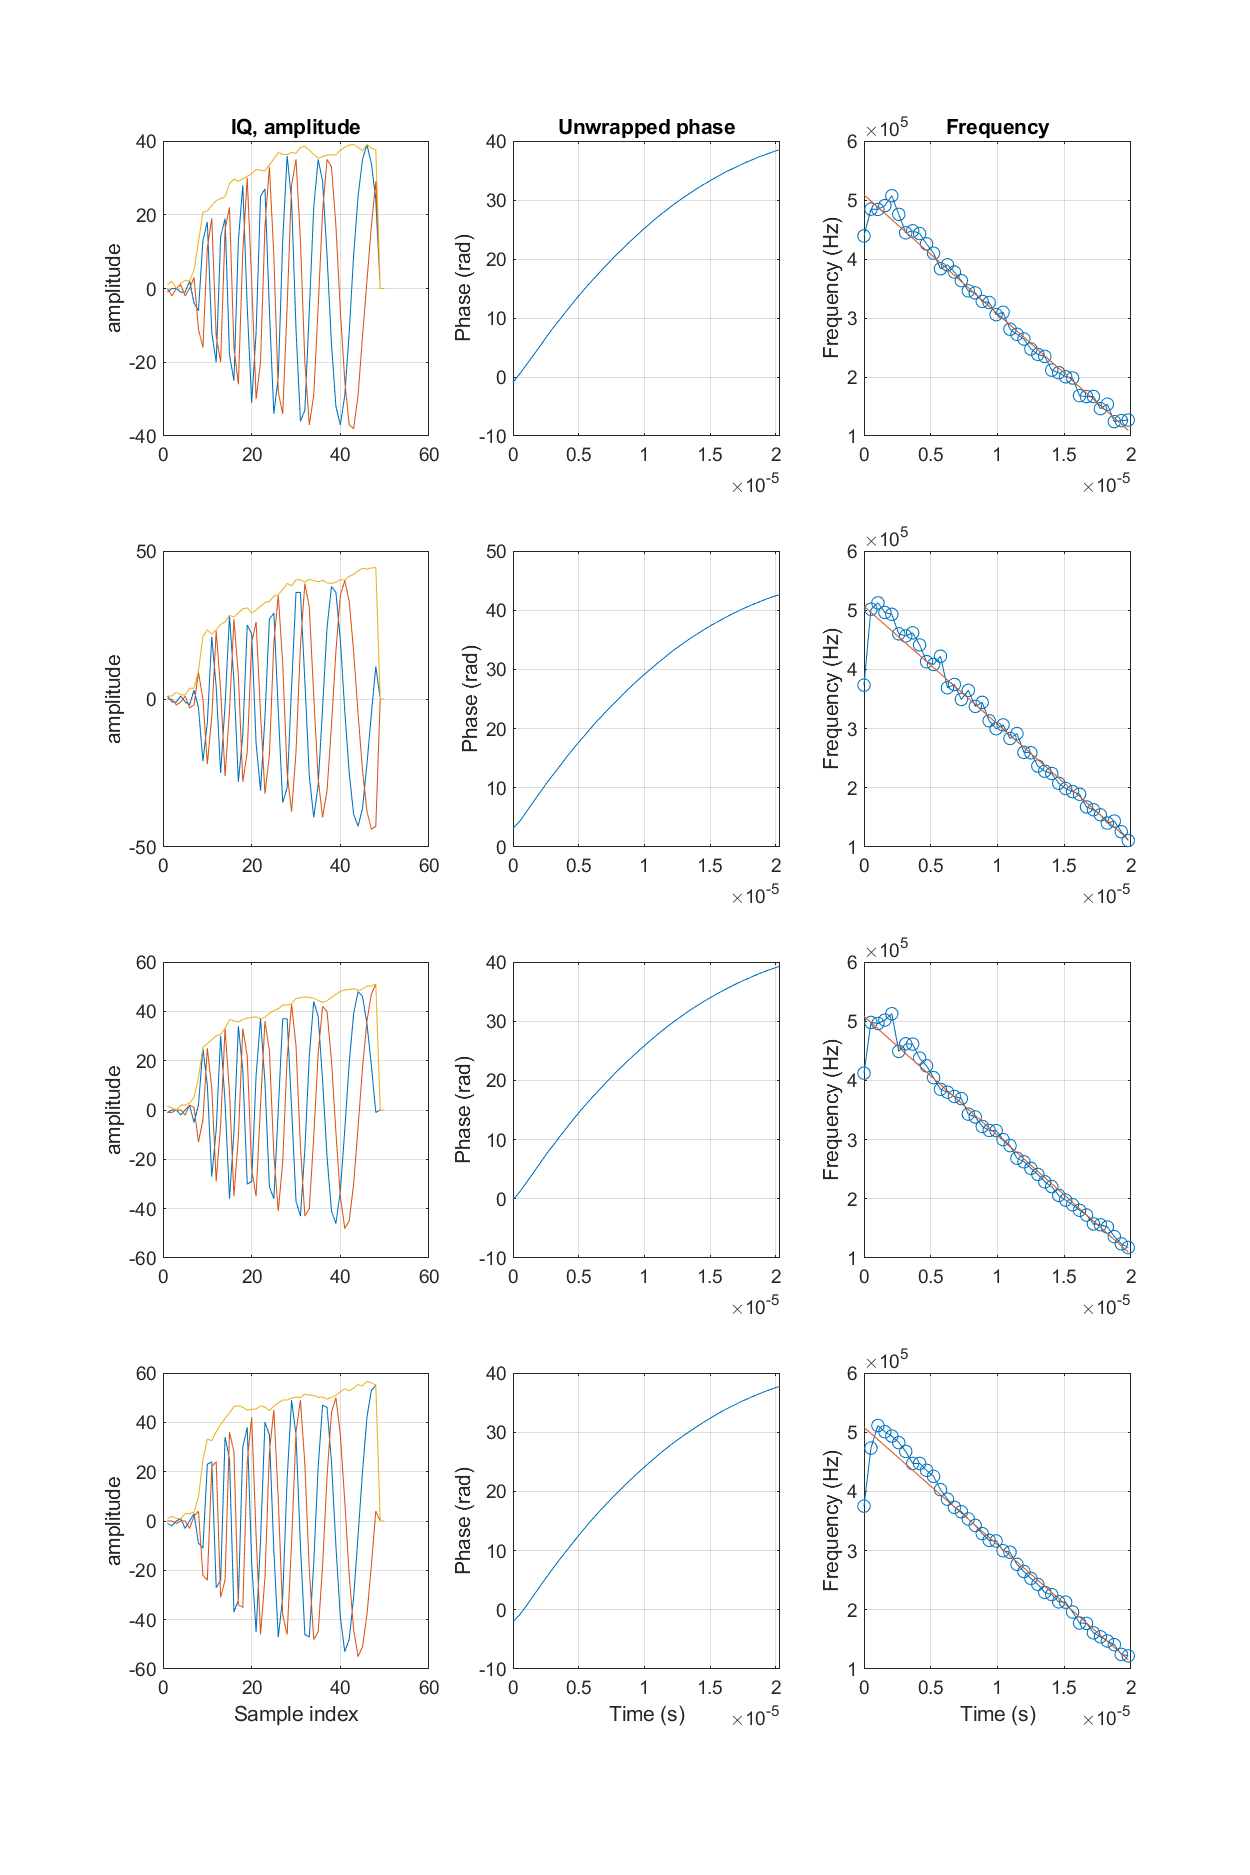
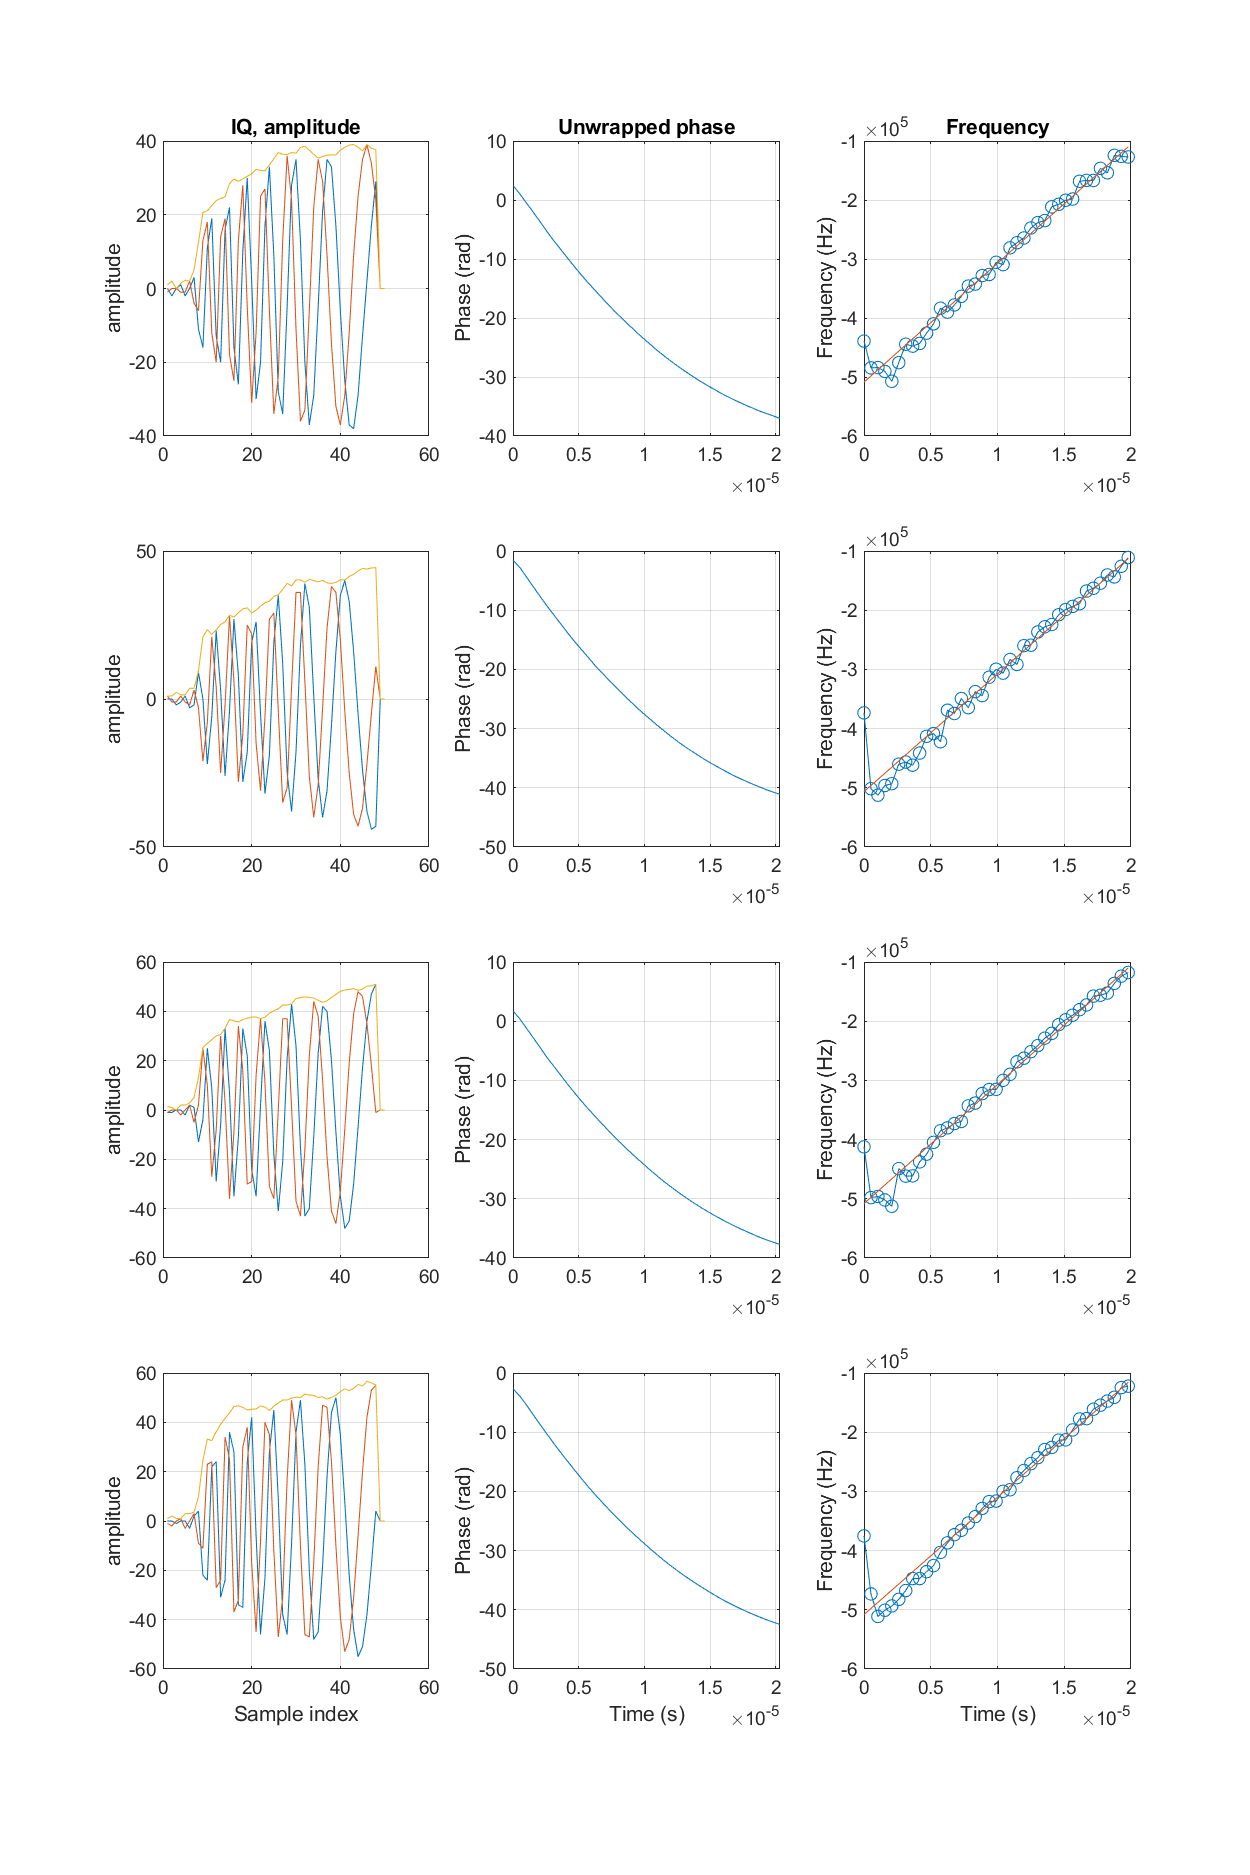
Swapped I and Q for modulation analysis.

diff --git a/ARSR-4/radar_analysis_ARSR_4.m b/ARSR-4/radar_analysis_ARSR_4.m
@@ -54,7 +54,7 @@ if reload
         pdw_reports(ii).pulse_toa_s             = pdw_reports(ii).pulse_start_time * toa_scale_factor_s - toa_0;
         pdw_reports(ii).pulse_duration_us       = pdw_reports(ii).pulse_duration * pd_scale_factor_us;
 
-        pdw_reports(ii).recorded_iq_data        = pdw_reports(ii).buffered_frame_data(:, 1) + pdw_reports(ii).buffered_frame_data(:, 2) * 1j;
+        pdw_reports(ii).recorded_iq_data        = 1j * pdw_reports(ii).buffered_frame_data(:, 1) + pdw_reports(ii).buffered_frame_data(:, 2);
         pdw_reports(ii).recorded_power          = abs(pdw_reports(ii).recorded_iq_data) .^ 2;
         pdw_reports(ii).recorded_noise_power    = mean(pdw_reports(ii).recorded_power(1:8));
     

diff --git a/ARSR-4/modulation_analysis.m b/ARSR-4/modulation_analysis.m
@@ -84,7 +84,7 @@ for jj = 1:length(pdws_by_snr)
         if strcmp(pdw.modulation_data.modulation_type, 'FM')
             num_detected_FM = num_detected_FM + 1;
             sum_r_squared   = sum_r_squared + pdw.modulation_data.LFM_r_squared;
-            sum_slope       = sum_slope + pdw.modulation_data.LFM_slope;
+            sum_slope       = sum_slope + pdw.modulation_data.LFM_slope * -1; %2024-12-29: old version had I and Q swapped
             sum_residual    = sum_residual + pdw.modulation_data.LFM_mean_residual;
         end
     end
